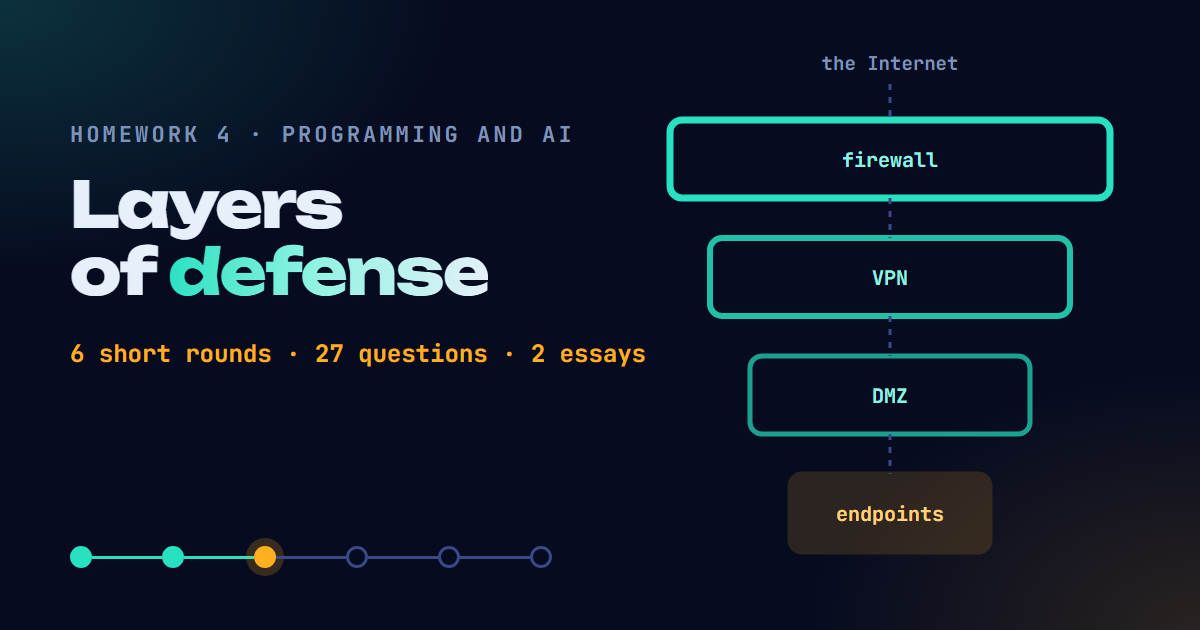
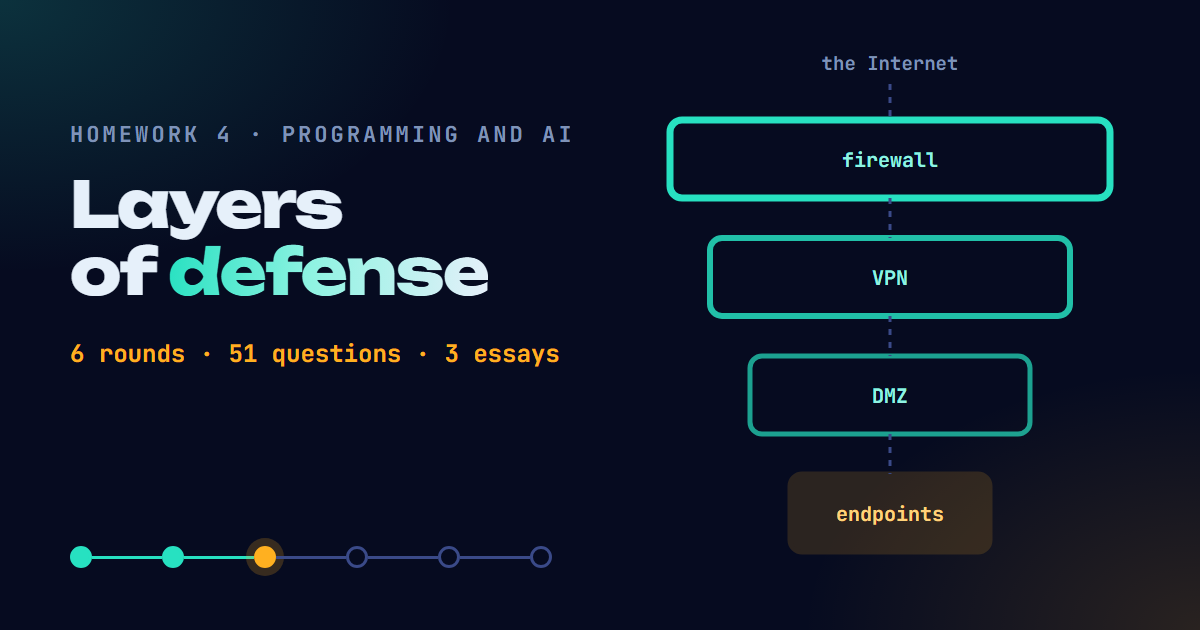
Homework 4 covers the whole of lesson 2-2: 51 points, 3 essays

Changed region(s): [[0.0617, 0.5429, 0.555, 0.573]]

diff --git a/hw4/index.html b/hw4/index.html
@@ -323,8 +323,8 @@ button{cursor:pointer;-webkit-tap-highlight-color:transparent}
 <div class="actions" id="actions" hidden><div class="actions-in" id="actionsIn"></div></div>
 <noscript><p style="padding:24px;color:#E6F0FA">This homework needs JavaScript. Please open the link in Chrome or Safari.</p></noscript>
 <script>
-const HW = {"id": "hw4", "title": "Homework 4: Layers of Defense", "sheet": "Homework 4", "salt": "defense-in-depth-and-zero-trust", "endpoint": "https://script.google.com/macros/s/AKfycbwlkc3-gi4B4E7s3xEKEeDWZsyU8OstLs-Rr2UFe1bbHEDYSTV_1KKZ4ljDQ6nc1MUt/exec", "screens": [{"type": "mcq", "round": 0, "ids": ["Q1"], "q": "A company wants to stop unwanted traffic at the entrance of its network. What does it use?", "options": ["A firewall", "A VPN", "A DMZ", "A password"]}, {"type": "mcq", "round": 0, "ids": ["Q2"], "q": "Ahmed works from home and needs to open his company's system safely. What should the company give him?", "options": ["A DMZ", "A VPN", "A firewall rule", "Antivirus software"]}, {"type": "mcq", "round": 0, "ids": ["Q3"], "q": "Why is a public web server placed in the DMZ?", "options": ["Because it runs faster there", "So that if it is attacked, the damage does not reach the internal network", "Because the firewall cannot see it there", "So that nobody from outside can reach it"]}, {"type": "mcq", "round": 0, "ids": ["Q4"], "q": "Antivirus software installed on every laptop belongs to which layer of defense in depth?", "options": ["Network entry", "Communication path", "Server placement", "Endpoints"]}, {"type": "mcq", "round": 0, "ids": ["Q5"], "q": "A bank verifies the identity of an employee at every access, even from inside the office. This idea is called:", "options": ["Perimeter security", "Zero trust", "A DMZ", "Encryption"]}, {"type": "mcq", "round": 0, "ids": ["Q6"], "q": "Why is protecting only the perimeter no longer enough?", "options": ["Firewalls stopped working", "Cloud services and remote work blurred the line between inside and outside", "VPNs became too slow", "Companies stopped using passwords"]}, {"type": "mcq", "round": 0, "ids": ["Q7"], "q": "Which answer describes defense in depth?", "options": ["One very strong barrier at the entrance", "Several layers, so that a breach of one is not the end", "Trusting everything inside the network", "Replacing the firewall with antivirus software"]}, {"type": "mcq", "round": 0, "ids": ["Q8"], "q": "A rule says: allow access to the web server, but deny direct external access to the database server. This is an example of:", "options": ["A firewall allowing or denying communication by preset rules", "A VPN encrypting the data", "A DMZ separating servers", "Zero trust verifying a user"]}, {"type": "tf", "round": 1, "ids": ["Q9"], "q": "Because a VPN encrypts the communication, the risk of eavesdropping drops even on public Wi-Fi."}, {"type": "tf", "round": 1, "ids": ["Q10"], "q": "A DMZ places the public servers inside the internal network."}, {"type": "tf", "round": 1, "ids": ["Q11"], "q": "Zero trust still trusts anything that comes from inside the office."}, {"type": "tf", "round": 1, "ids": ["Q12"], "q": "Defense in depth means that if one measure is breached, the next one can still protect the system."}, {"type": "tf", "round": 1, "ids": ["Q13"], "q": "A firewall decides what to allow or deny using rules that are set in advance."}, {"type": "tf", "round": 1, "ids": ["Q14"], "q": "Keeping the operating system updated is part of the endpoint layer."}, {"type": "match", "round": 2, "ids": ["Q15", "Q16", "Q17", "Q18", "Q19"], "note": "Match each job to the technology that does it. Each answer is used once.", "choices": ["Firewall", "VPN", "DMZ", "Zero trust", "Antivirus software"], "rows": ["Blocks unwanted traffic at the entry point of the network.", "Lets a branch office connect to the head office safely over the Internet.", "Keeps the public mail server away from the internal network.", "Asks for verification at every access, even from inside the company.", "Protects the laptop itself if something gets through the other layers."]}, {"type": "order", "round": 3, "ids": ["Q20", "Q21", "Q22", "Q23"], "note": "These are the four layers of defense in depth. Put them in the order the textbook gives.", "top": "Layer 1", "bottom": "Layer 4", "items": ["Server placement: separate public servers with a DMZ", "Network entry: block unauthorized communication with a firewall", "Endpoints: antivirus software and an updated operating system", "Communication path: encrypt the communication with a VPN"]}, {"type": "fill", "round": 4, "ids": ["Q24", "Q25", "Q26", "Q27"], "note": "Type the missing word, or tap a word from the bank. Not every word is used.", "bank": ["firewall", "VPN", "DMZ", "Zero", "perimeter", "endpoint"], "rows": [{"before": "A", "after": "allows or denies communication at the entry point of a network."}, {"before": "A", "after": "creates an encrypted tunnel over the Internet, so you can connect safely from far away."}, {"before": "Servers that face the outside are placed in the", "after": ", away from the internal network."}, {"before": "", "after": "trust means every access is verified, even from inside the organization."}]}, {"type": "essay", "round": 5, "ids": ["E1"], "q": "A small company protects its network with a firewall only. Explain why that is not enough, and name TWO more measures it should add.", "marks": 3, "refer": ["why one barrier is not enough", "two more measures"]}, {"type": "essay", "round": 5, "ids": ["E2"], "q": "Your friend says: “Our office network is safe, because the firewall is strong, so we can trust anyone inside it.” Explain why zero trust disagrees.", "marks": 3, "refer": ["what zero trust means", "why the old perimeter idea is not enough"]}], "rounds": [{"era": "The gate", "tag": "Gate", "eraName": "Who gets in", "title": "Quick picks", "how": "Choose one answer, then tap Check. Once checked, it is locked in."}, {"era": "The tunnel", "tag": "Tunnel", "eraName": "A safe path over a risky road", "title": "○ or ×", "how": "Is the statement true (○) or false (×)?"}, {"era": "The front room", "tag": "DMZ", "eraName": "Where public servers sit", "title": "Match it", "how": "Give every situation its answer, then check the whole set."}, {"era": "The layers", "tag": "Layers", "eraName": "Defense in depth", "title": "Put it in order", "how": "Move each card up or down until the order is right, then check."}, {"era": "The words", "tag": "Words", "eraName": "The terms you need", "title": "Fill the gap", "how": "Type the missing word, or tap one from the word bank."}, {"era": "Your verdict", "tag": "You", "eraName": "Your own judgment", "title": "Explain it", "how": "Write full answers in English, like in the exam, in your own words and without any AI help. El Bashmohandes marks these."}], "minutes": 25, "arTime": "نص ساعة", "kicker": "Homework 4 · Programming and AI", "h1": ["Layers ", "of ", "defense"], "lead": "Six short rounds on how a network is kept safe: the gate, the tunnel, the front room, and the layers behind them. Answer, check, and see which level you reach."};
[1 lines of base64/hex data omitted]
+const HW = {"id": "hw4", "title": "Homework 4: Layers of Defense", "sheet": "Homework 4", "salt": "defense-in-depth-and-zero-trust", "endpoint": "https://script.google.com/macros/s/AKfycbwlkc3-gi4B4E7s3xEKEeDWZsyU8OstLs-Rr2UFe1bbHEDYSTV_1KKZ4ljDQ6nc1MUt/exec", "screens": [{"type": "mcq", "round": 0, "ids": ["Q1"], "q": "A company wants to stop unwanted traffic at the entrance of its network. What does it use?", "options": ["A firewall", "A VPN", "A DMZ", "A password"]}, {"type": "mcq", "round": 0, "ids": ["Q2"], "q": "Which of these is a correct example of a firewall rule?", "options": ["Encrypt every message leaving the company", "Allow access to the web server, but deny direct external access to the database server", "Verify the identity of every user at every access", "Place the mail server away from the internal network"]}, {"type": "mcq", "round": 0, "ids": ["Q3"], "q": "Ahmed works from home and needs to open his company's system safely. What should the company give him?", "options": ["A DMZ", "A VPN", "A firewall rule", "Antivirus software"]}, {"type": "mcq", "round": 0, "ids": ["Q4"], "q": "What exactly does a VPN create?", "options": ["A faster Internet connection", "An encrypted private line, a tunnel, over the Internet", "A separate area for public servers", "A list of allowed and denied addresses"]}, {"type": "mcq", "round": 0, "ids": ["Q5"], "q": "A company connects two branch offices in different cities safely over the Internet. Which technology does it use?", "options": ["A DMZ", "A VPN", "Antivirus software", "Zero trust"]}, {"type": "mcq", "round": 0, "ids": ["Q6"], "q": "Which servers are usually placed in a DMZ?", "options": ["The servers that hold salaries and private records", "The servers that people outside reach, such as the web server and the mail server", "Only the backup servers", "No servers at all"]}, {"type": "mcq", "round": 0, "ids": ["Q7"], "q": "Why is a public web server placed in the DMZ?", "options": ["Because it runs faster there", "So that if it is attacked, the damage does not reach the internal network", "Because the firewall cannot see it there", "So that nobody from outside can reach it"]}, {"type": "mcq", "round": 0, "ids": ["Q8"], "q": "Antivirus software installed on every laptop belongs to which layer of defense in depth?", "options": ["Network entry", "Communication path", "Server placement", "Endpoints"]}, {"type": "mcq", "round": 0, "ids": ["Q9"], "q": "Which answer describes defense in depth?", "options": ["One very strong barrier at the entrance", "Several layers, so that a breach of one is not the end", "Trusting everything inside the network", "Replacing the firewall with antivirus software"]}, {"type": "mcq", "round": 0, "ids": ["Q10"], "q": "A bank verifies the identity of an employee at every access, even from inside the office. This idea is called:", "options": ["Perimeter security", "Zero trust", "A DMZ", "Encryption"]}, {"type": "mcq", "round": 0, "ids": ["Q11"], "q": "“Inside the organization's network is safe, and outside is dangerous.” What is this older idea called?", "options": ["Zero trust", "Defense in depth", "Perimeter-based security", "Endpoint protection"]}, {"type": "mcq", "round": 0, "ids": ["Q12"], "q": "Why is protecting only the perimeter no longer enough?", "options": ["Firewalls stopped working", "Cloud services and remote work blurred the line between inside and outside", "VPNs became too slow", "Companies stopped using passwords"]}, {"type": "mcq", "round": 0, "ids": ["Q13"], "q": "According to the lesson, strong network security comes from:", "options": ["One strong measure at the entrance", "Layering several measures and verifying every access", "Changing the password every week", "Keeping the network offline"]}, {"type": "mcq", "round": 0, "ids": ["Q14"], "q": "A hotel used to check your identity once at the door. Now it asks for your card at every room. Which idea does the new way match?", "options": ["Defense in depth", "Zero trust", "A DMZ", "A firewall rule"]}, {"type": "tf", "round": 1, "ids": ["Q15"], "q": "Because a VPN encrypts the communication, the risk of eavesdropping drops even on public Wi-Fi."}, {"type": "tf", "round": 1, "ids": ["Q16"], "q": "A DMZ places the public servers inside the internal network."}, {"type": "tf", "round": 1, "ids": ["Q17"], "q": "Zero trust still trusts anything that comes from inside the office."}, {"type": "tf", "round": 1, "ids": ["Q18"], "q": "Defense in depth means that if one measure is breached, the next one can still protect the system."}, {"type": "tf", "round": 1, "ids": ["Q19"], "q": "A firewall decides what to allow or deny using rules that are set in advance."}, {"type": "tf", "round": 1, "ids": ["Q20"], "q": "Keeping the operating system updated is part of the endpoint layer."}, {"type": "tf", "round": 1, "ids": ["Q21"], "q": "A VPN is only useful inside the office building."}, {"type": "tf", "round": 1, "ids": ["Q22"], "q": "Separating public servers with a DMZ is one of the four layers of defense in depth."}, {"type": "tf", "round": 1, "ids": ["Q23"], "q": "A firewall must either allow all traffic or block all traffic."}, {"type": "tf", "round": 1, "ids": ["Q24"], "q": "Zero trust became important partly because of cloud services and remote work."}, {"type": "match", "round": 2, "ids": ["Q25", "Q26", "Q27", "Q28", "Q29"], "note": "Match each job to the technology that does it. Each answer is used once.", "choices": ["Firewall", "VPN", "DMZ", "Zero trust", "Antivirus software"], "rows": ["Blocks unwanted traffic at the entry point of the network.", "Lets a branch office connect to the head office safely over the Internet.", "Keeps the public mail server away from the internal network.", "Asks for verification at every access, even from inside the company.", "Protects the laptop itself if something gets through the other layers."]}, {"type": "match", "round": 2, "ids": ["Q30", "Q31", "Q32", "Q33"], "note": "Match each layer of defense in depth to the measure used in it. Each answer is used once.", "choices": ["Block unauthorized communication with a firewall", "Encrypt the communication with a VPN", "Separate public servers with a DMZ", "Antivirus software and an updated operating system"], "rows": ["Layer 1: network entry", "Layer 2: communication path", "Layer 3: server placement", "Layer 4: endpoints"]}, {"type": "order", "round": 3, "ids": ["Q34", "Q35", "Q36", "Q37"], "note": "These are the four layers of defense in depth. Put them in the order the textbook gives.", "top": "Layer 1", "bottom": "Layer 4", "items": ["Server placement: separate public servers with a DMZ", "Network entry: block unauthorized communication with a firewall", "Endpoints: antivirus software and an updated operating system", "Communication path: encrypt the communication with a VPN"]}, {"type": "order", "round": 3, "ids": ["Q38", "Q39", "Q40", "Q41"], "note": "Put these in order, from the outside of the network to the inside.", "top": "Outside", "bottom": "Inside", "items": ["The internal network, with the private data", "The firewall at the entry point", "The Internet", "The DMZ, with the public web and mail servers"]}, {"type": "fill", "round": 4, "ids": ["Q42", "Q43", "Q44", "Q45", "Q46"], "note": "Type the missing word, or tap a word from the bank. Not every word is used.", "bank": ["firewall", "VPN", "DMZ", "Zero", "rules", "perimeter", "endpoint"], "rows": [{"before": "A", "after": "allows or denies communication at the entry point of a network."}, {"before": "A", "after": "creates an encrypted tunnel over the Internet, so you can connect safely from far away."}, {"before": "Servers that face the outside are placed in the", "after": ", away from the internal network."}, {"before": "", "after": "trust means every access is verified, even from inside the organization."}, {"before": "A firewall decides what to allow and what to deny using", "after": "that are set in advance."}]}, {"type": "fill", "round": 4, "ids": ["Q47", "Q48", "Q49", "Q50", "Q51"], "note": "Type the missing word, or tap a word from the bank. Not every word is used.", "bank": ["tunnel", "depth", "endpoints", "eavesdropping", "internal", "layers", "outside"], "rows": [{"before": "A VPN creates an encrypted", "after": "over the Internet."}, {"before": "Layering several measures so that one breach is not the end is called defense in", "after": "."}, {"before": "Antivirus software and an updated operating system protect the", "after": "."}, {"before": "Using a VPN reduces the risk of", "after": "even on public Wi-Fi."}, {"before": "A DMZ keeps public servers away from the", "after": "network."}]}, {"type": "essay", "round": 5, "ids": ["E1"], "q": "A small company protects its network with a firewall only. Explain why that is not enough, and name TWO more measures it should add.", "marks": 3, "refer": ["why one barrier is not enough", "two more measures"]}, {"type": "essay", "round": 5, "ids": ["E2"], "q": "Your friend says: “Our office network is safe, because the firewall is strong, so we can trust anyone inside it.” Explain why zero trust disagrees.", "marks": 3, "refer": ["what zero trust means", "why the old perimeter idea is not enough"]}, {"type": "essay", "round": 5, "ids": ["E3"], "q": "Why is it safer to place a public web server in a DMZ rather than inside the internal network?", "marks": 3, "refer": ["what a DMZ is", "what happens if the public server is attacked"]}], "rounds": [{"era": "The gate", "tag": "Gate", "eraName": "Who gets in", "title": "Quick picks", "how": "Choose one answer, then tap Check. Once checked, it is locked in."}, {"era": "The tunnel", "tag": "Tunnel", "eraName": "A safe path over a risky road", "title": "○ or ×", "how": "Is the statement true (○) or false (×)?"}, {"era": "The front room", "tag": "DMZ", "eraName": "Where public servers sit", "title": "Match it", "how": "Give every situation its answer, then check the whole set."}, {"era": "The layers", "tag": "Layers", "eraName": "Defense in depth", "title": "Put it in order", "how": "Move each card up or down until the order is right, then check."}, {"era": "The words", "tag": "Words", "eraName": "The terms you need", "title": "Fill the gap", "how": "Type the missing word, or tap one from the word bank."}, {"era": "Your verdict", "tag": "You", "eraName": "Your own judgment", "title": "Explain it", "how": "Write full answers in English, like in the exam, in your own words and without any AI help. El Bashmohandes marks these."}], "minutes": 45, "arTime": "تلت ساعة", "kicker": "Homework 4 · Programming and AI", "h1": ["Layers ", "of ", "defense"], "lead": "Six short rounds on how a network is kept safe: the gate, the tunnel, the front room, and the layers behind them. Answer, check, and see which level you reach."};
[1 lines of base64/hex data omitted]
 /* ===== Part A: data, state, scoring ===== */
 const ROUNDS = (typeof HW !== "undefined" && HW.rounds) ? HW.rounds : [
   { era: "1940s–60s", tag: "40s", eraName: "Birth of the computer", title: "Quick picks", how: "Choose one answer, then tap Check. Once checked, it is locked in." },

diff --git a/index.html b/index.html
@@ -57,7 +57,7 @@
   <a class="hw" href="hw4/">
     <span class="n">HOMEWORK 4</span>
     <div class="t">Layers of Defense</div>
-    <div class="d">Firewalls, VPNs, the DMZ and zero trust.</div>
+    <div class="d">Firewalls, VPNs, the DMZ, the four layers and zero trust.</div>
     <span class="go">Open &rarr;</span>
   </a>
 
